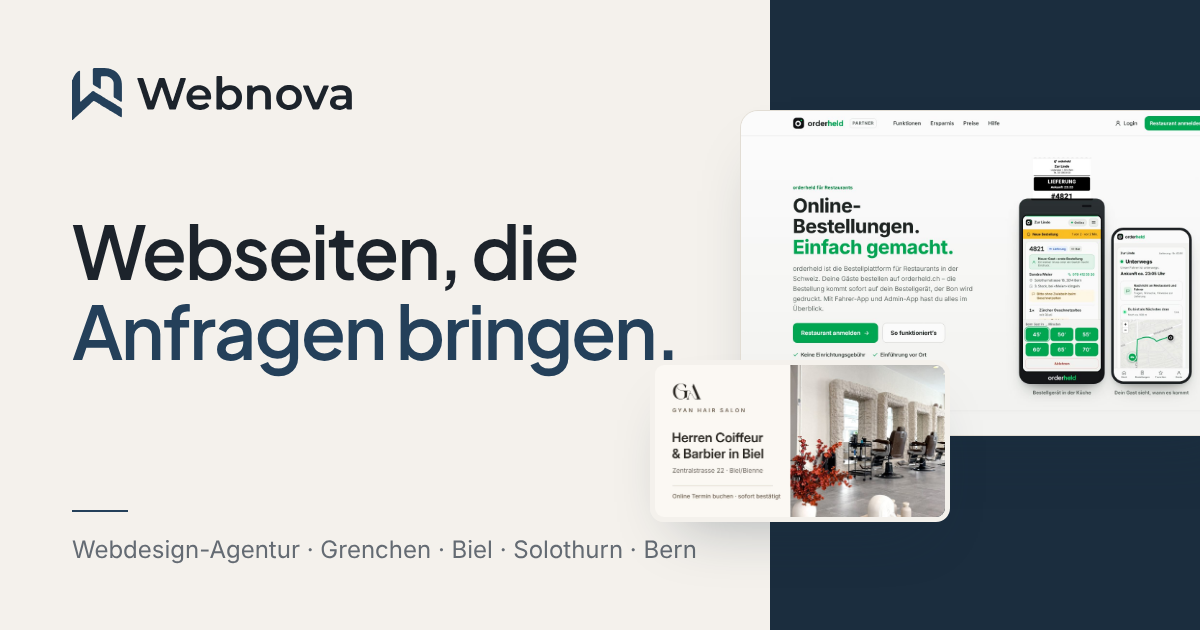
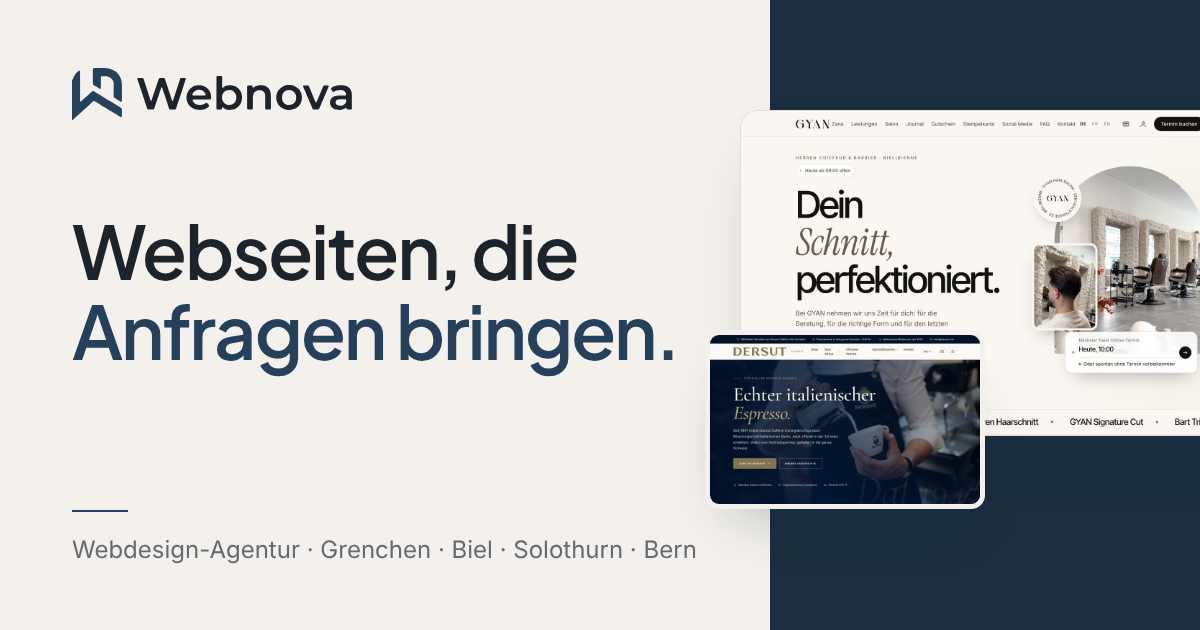
Push services first, show references quietly, remove orderheld
- Hero shows the service list instead of project screenshots; the
  services section follows directly after the hero.
- Projects move below the process as a calm two-card "Ausgewählte
  Projekte" block with a text link to all references.
- orderheld hidden for now; GYAN and Dersut use real live screenshots.
- OG images rebuilt without orderheld.

Claude-Session: https://claude.ai/code/session_01Vu1LZdaiSnJ2C8LAg3o6Dh

diff --git a/src/app/(site)/[lang]/page.tsx b/src/app/(site)/[lang]/page.tsx
@@ -51,8 +51,9 @@ export async function generateMetadata({ params }: PageProps<"/[lang]">) {
 
 const intro = {
   de: {
-    projectsEyebrow: "Aktuelle Projekte",
-    projectsTitle: "Arbeiten, die für unsere Kunden Tag für Tag laufen.",
+    projectsEyebrow: "Ausgewählte Projekte",
+    projectsTitle: "Ein Einblick in unsere Arbeit.",
+    heroServices: "Unsere Leistungen",
     toProject: "Zum Projekt",
     servicesEyebrow: "Wie können wir helfen?",
     servicesTitle: "Sagen Sie uns, wo der Schuh drückt. Wir kümmern uns um den Rest.",
@@ -62,8 +63,9 @@ const intro = {
       "Bei uns haben Sie vom ersten Gespräch bis zum Launch und darüber hinaus eine feste Ansprechperson. Wir planen klar, gestalten ruhig und bauen Webseiten, die schnell laden, gefunden werden und Anfragen bringen.",
   },
   fr: {
-    projectsEyebrow: "Projets récents",
-    projectsTitle: "Des réalisations qui travaillent chaque jour pour nos clients.",
+    projectsEyebrow: "Projets choisis",
+    projectsTitle: "Un aperçu de notre travail.",
+    heroServices: "Nos services",
     toProject: "Voir le projet",
     servicesEyebrow: "Comment pouvons-nous aider ?",
     servicesTitle: "Dites-nous ce qui coince. Nous nous occupons du reste.",
@@ -94,7 +96,6 @@ export default async function Home({ params }: PageProps<"/[lang]">) {
   const mainServices = services.filter((s) => s.key !== "kassensystem-gastro" && s.key !== "kassensystem-retail");
   const core = cities.filter((c) => c.priority === "A");
   const shown = showReferences ? references : [];
-  const [heroBack, heroFront] = [shown.find((r) => r.key === "orderheld"), shown.find((r) => r.key === "gyan-hair-salon")];
 
   return (
     <>
@@ -103,7 +104,7 @@ export default async function Home({ params }: PageProps<"/[lang]">) {
       {/* HERO: calm statement on Kalk, real project work on the right */}
       <section className="relative overflow-hidden border-b border-line bg-bg">
         <div className="container-x grid items-center gap-14 pb-20 pt-14 md:pt-20 lg:grid-cols-12 lg:pb-28">
-          <div className="lg:col-span-6">
+          <div className="lg:col-span-7">
             <p className="eyebrow mb-7 animate-rise">{d.hero.eyebrow}</p>
             <h1 className="display animate-rise text-[clamp(2.7rem,5.6vw,4.9rem)] [animation-delay:80ms]">
               {d.hero.title1} <span className="text-accent">{d.hero.title2}</span>
@@ -111,15 +112,9 @@ export default async function Home({ params }: PageProps<"/[lang]">) {
             <p className="mt-8 max-w-xl animate-rise text-[18px] leading-relaxed text-ink-soft [animation-delay:160ms] md:text-[19px]">{d.hero.lead}</p>
             <div className="mt-10 flex animate-rise flex-wrap gap-3 [animation-delay:240ms]">
               <ButtonLink href={href(lang, "request")}>{d.hero.primary}</ButtonLink>
-              {shown.length > 0 ? (
-                <ButtonLink href={href(lang, "references")} variant="ghost" arrow={false}>
-                  {d.home.referencesAll}
-                </ButtonLink>
-              ) : (
-                <ButtonLink href={href(lang, "services")} variant="ghost" arrow={false}>
-                  {d.hero.secondary}
-                </ButtonLink>
-              )}
+              <ButtonLink href={href(lang, "services")} variant="ghost" arrow={false}>
+                {d.hero.secondary}
+              </ButtonLink>
             </div>
             <ul className="mt-12 flex animate-rise flex-wrap gap-x-8 gap-y-3 border-t border-line pt-6 text-[14.5px] text-ink-soft [animation-delay:320ms]">
               {d.hero.points.map((p) => (
@@ -130,62 +125,26 @@ export default async function Home({ params }: PageProps<"/[lang]">) {
               ))}
             </ul>
           </div>
-          {heroBack && (
-            <div className="relative animate-rise [animation-delay:200ms] lg:col-span-6">
-              <div className="relative ml-auto w-[92%] overflow-hidden rounded-2xl border border-line bg-surface shadow-soft">
-                <Image src={heroBack.image!} alt={`${heroBack.name}, ${heroBack.content[lang].industry}`} width={1440} height={900} priority sizes="(min-width: 1024px) 560px, 92vw" className="h-auto w-full" />
-              </div>
-              {heroFront && (
-                <div className="relative -mt-[22%] w-[62%] overflow-hidden rounded-2xl border-4 border-bg shadow-soft">
-                  <Image src={heroFront.image!} alt={`${heroFront.name}, ${heroFront.content[lang].industry}`} width={1200} height={630} priority sizes="(min-width: 1024px) 380px, 62vw" className="h-auto w-full" />
-                </div>
-              )}
+          <div className="animate-rise [animation-delay:200ms] lg:col-span-5 lg:col-start-8">
+            <div className="rounded-3xl bg-night p-3 text-white shadow-soft">
+              <p className="px-5 pb-3 pt-4 text-[12.5px] font-semibold uppercase tracking-[0.14em] text-accent-light">{i.heroServices}</p>
+              <ul className="divide-y divide-white/10 rounded-2xl bg-night-2">
+                {mainServices.map((sv) => (
+                  <li key={sv.key}>
+                    <Link href={href(lang, `service:${sv.key}`)} className="group flex items-center gap-4 px-5 py-3.5 transition-colors hover:bg-white/[0.04]">
+                      <span className="grid h-9 w-9 shrink-0 place-items-center rounded-lg bg-white/10 text-accent-light">
+                        <Icon name={sv.icon} className="h-[18px] w-[18px]" />
+                      </span>
+                      <span className="flex-1 text-[16px] font-medium">{sv.content[lang].navLabel}</span>
+                      <Icon name="arrow" className="h-4 w-4 text-white/40 transition-all duration-300 group-hover:translate-x-1 group-hover:text-white" />
+                    </Link>
+                  </li>
+                ))}
+              </ul>
             </div>
-          )}
+          </div>
         </div>
       </section>
-
-      {/* PROJECTS: the latest work, each linking to its own project page */}
-      {shown.length > 0 && (
-        <section className="container-x py-24 md:py-32">
-          <div className="reveal mb-14 flex flex-wrap items-end justify-between gap-6">
-            <div className="max-w-2xl">
-              <p className="eyebrow mb-4">{i.projectsEyebrow}</p>
-              <h2 className="h-section">{i.projectsTitle}</h2>
-            </div>
-            <ButtonLink href={href(lang, "references")} variant="ghost">
-              {d.home.referencesAll}
-            </ButtonLink>
-          </div>
-          <div className="grid gap-x-8 gap-y-14 md:grid-cols-2 lg:grid-cols-3">
-            {shown.map((r) => (
-              <Link key={r.key} href={href(lang, `reference:${r.key}`)} className="reveal group flex flex-col">
-                <div className="relative aspect-[16/10] overflow-hidden rounded-2xl border border-line" style={{ background: r.colors.bg }}>
-                  {r.image && (
-                    <Image
-                      src={r.image}
-                      alt={`${r.name}, ${r.content[lang].industry}`}
-                      fill
-                      sizes="(min-width: 1024px) 400px, (min-width: 768px) 50vw, 100vw"
-                      className="object-cover object-left-top transition-transform duration-700 ease-out group-hover:scale-[1.03]"
-                    />
-                  )}
-                </div>
-                <p className="mt-6 text-[13.5px] text-muted">
-                  {r.content[lang].industry}
-                  {r.content[lang].place && <> · {r.content[lang].place}</>}
-                </p>
-                <h3 className="mt-1.5 font-display text-[24px] font-semibold tracking-[-0.02em] transition-colors group-hover:text-accent">{r.name}</h3>
-                <p className="mt-3 line-clamp-3 text-[15.5px] leading-relaxed text-ink-soft">{r.content[lang].summary}</p>
-                <span className="mt-5 inline-flex items-center gap-2 text-[15px] font-medium text-accent">
-                  {i.toProject}
-                  <Icon name="arrow" className="h-4 w-4 transition-transform duration-300 group-hover:translate-x-1" />
-                </span>
-              </Link>
-            ))}
-          </div>
-        </section>
-      )}
 
       {/* SERVICES as the questions clients ask, on deep Schieferblau */}
       <section className="bg-night py-24 text-white md:py-32">
@@ -256,6 +215,49 @@ export default async function Home({ params }: PageProps<"/[lang]">) {
           </ol>
         </div>
       </section>
+
+      {/* PROJECTS: a quiet look at selected work, after the services */}
+      {shown.length > 0 && (
+        <section className="container-x py-24 md:py-28">
+          <div className="reveal mb-14 flex flex-wrap items-end justify-between gap-6">
+            <div className="max-w-2xl">
+              <p className="eyebrow mb-4">{i.projectsEyebrow}</p>
+              <h2 className="h-section">{i.projectsTitle}</h2>
+            </div>
+            <Link href={href(lang, "references")} className="inline-flex items-center gap-2 text-[15px] font-medium text-accent">
+              {d.home.referencesAll}
+              <Icon name="arrow" className="h-4 w-4" />
+            </Link>
+          </div>
+          <div className="grid gap-x-8 gap-y-12 md:grid-cols-2">
+            {shown.map((r) => (
+              <Link key={r.key} href={href(lang, `reference:${r.key}`)} className="reveal group flex flex-col">
+                <div className="relative aspect-[16/9] overflow-hidden rounded-2xl border border-line" style={{ background: r.colors.bg }}>
+                  {r.image && (
+                    <Image
+                      src={r.image}
+                      alt={`${r.name}, ${r.content[lang].industry}`}
+                      fill
+                      sizes="(min-width: 768px) 580px, 100vw"
+                      className="object-cover object-left-top transition-transform duration-700 ease-out group-hover:scale-[1.03]"
+                    />
+                  )}
+                </div>
+                <p className="mt-6 text-[13.5px] text-muted">
+                  {r.content[lang].industry}
+                  {r.content[lang].place && <> · {r.content[lang].place}</>}
+                </p>
+                <h3 className="mt-1.5 font-display text-[24px] font-semibold tracking-[-0.02em] transition-colors group-hover:text-accent">{r.name}</h3>
+                <p className="mt-3 line-clamp-3 text-[15.5px] leading-relaxed text-ink-soft">{r.content[lang].summary}</p>
+                <span className="mt-5 inline-flex items-center gap-2 text-[15px] font-medium text-accent">
+                  {i.toProject}
+                  <Icon name="arrow" className="h-4 w-4 transition-transform duration-300 group-hover:translate-x-1" />
+                </span>
+              </Link>
+            ))}
+          </div>
+        </section>
+      )}
 
       {/* POS */}
       <section className="container-x py-24 md:py-32">

diff --git a/src/content/references.ts b/src/content/references.ts
@@ -31,6 +31,7 @@ const allReferences: Reference[] = [
   {
     key: "orderheld",
     name: "orderheld",
+    hidden: true,
     domain: "orderheld.ch",
     image: "/referenzen/orderheld.jpg",
     colors: { bg: "#f6f7f7", fg: "#111515", accent: "#00a651" },
@@ -127,7 +128,7 @@ const allReferences: Reference[] = [
     key: "gyan-hair-salon",
     name: "GYAN Hair Salon",
     domain: "gyanhairsalon.ch",
-    image: "/referenzen/gyan-hair-salon.jpg",
+    image: "/referenzen/gyan-hair-salon-live.jpg",
     colors: { bg: "#f7f3ec", fg: "#2b2722", accent: "#8a6f4e" },
     content: {
       de: {
@@ -174,7 +175,7 @@ const allReferences: Reference[] = [
     key: "dersut-kaffee",
     name: "Dersut Kaffee Schweiz",
     domain: "dersutkaffee.ch",
-    image: "/referenzen/dersut-kaffee.jpg",
+    image: "/referenzen/dersut-kaffee-live.jpg",
     colors: { bg: "#002856", fg: "#ffffff", accent: "#82754f" },
     content: {
       de: {
@@ -258,5 +259,5 @@ const allReferences: Reference[] = [
   },
 ];
 
-/** Projects shown on the site: orderheld, GYAN and Dersut. Hidden ones stay in the file for later. */
+/** Projects shown on the site: GYAN and Dersut. Hidden ones stay in the file for later. */
 export const references: Reference[] = allReferences.filter((r) => !r.hidden);
